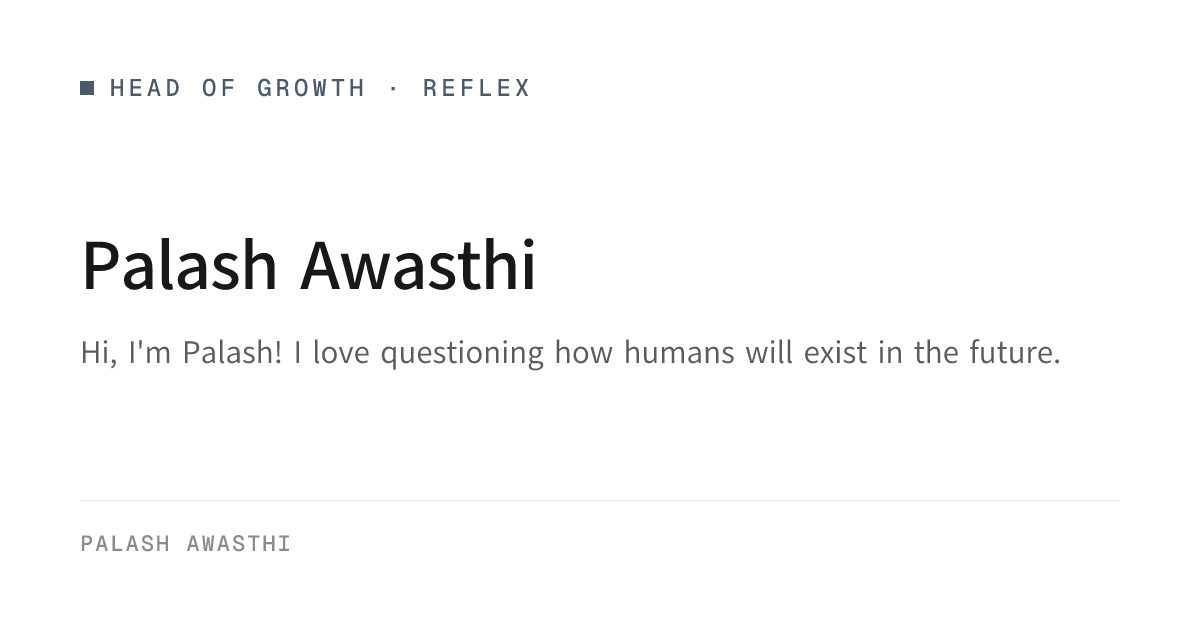
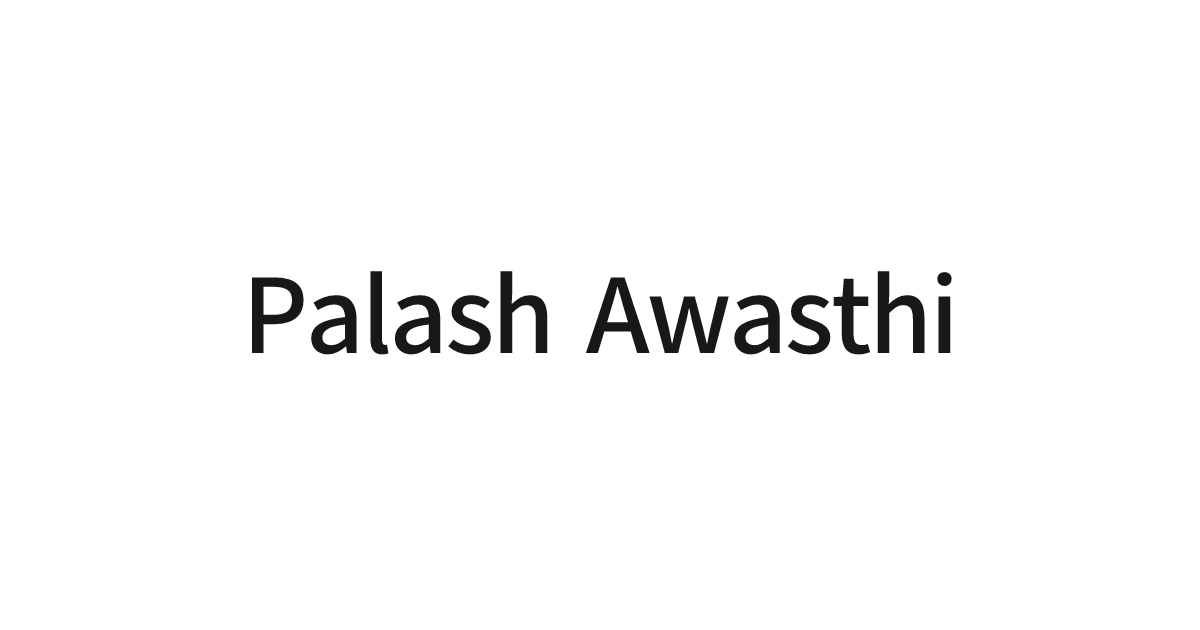
Deploy site — built from main@eff3ac2

diff --git a/index.html b/index.html
@@ -1,2 +1,2 @@
-<!DOCTYPE html><html lang="en" data-astro-cid-z4jru4n3><head><script>document.documentElement.classList.add('js');</script><meta charset="utf-8"><meta name="viewport" content="width=device-width, initial-scale=1"><meta name="generator" content="Astro v7.0.3"><title>Palash Awasthi</title><meta name="description" content="Hi, I'm Palash! I love questioning how humans will exist in the future."><link rel="canonical" href="https://www.palashawasthi.com/"><link rel="preload" href="/fonts/akatab-latin-400-normal.woff2" as="font" type="font/woff2" crossorigin><link rel="preload" href="/fonts/akatab-latin-600-normal.woff2" as="font" type="font/woff2" crossorigin><meta name="theme-color" content="#FFFFFF"><meta property="og:type" content="website"><meta property="og:title" content="Palash Awasthi"><meta property="og:description" content="Hi, I'm Palash! I love questioning how humans will exist in the future."><meta property="og:url" content="https://www.palashawasthi.com/"><meta property="og:image" content="https://www.palashawasthi.com/og/default.png"><meta property="og:image:width" content="1200"><meta property="og:image:height" content="630"><meta property="og:site_name" content="Palash Awasthi"><meta name="twitter:card" content="summary_large_image"><meta name="twitter:title" content="Palash Awasthi"><meta name="twitter:description" content="Hi, I'm Palash! I love questioning how humans will exist in the future."><meta name="twitter:image" content="https://www.palashawasthi.com/og/default.png"><link rel="sitemap" href="/sitemap-index.xml"><link rel="icon" href="/favicon.svg" type="image/svg+xml"><link rel="stylesheet" href="/_astro/BaseLayout.D_IoUOR4.css"><style>.shell[data-astro-cid-lcdefpme]{grid-template-columns:minmax(0,.85fr) minmax(0,1fr);align-items:start;gap:clamp(2rem,5vw,4rem);display:grid}.shell__figure[data-astro-cid-lcdefpme]{margin:0}.shell__photo[data-astro-cid-lcdefpme]{width:100%;height:auto;display:block}.shell__content[data-astro-cid-lcdefpme]{text-align:left;flex-direction:column;align-items:flex-start;display:flex}.shell__name[data-astro-cid-lcdefpme]{margin-bottom:1.5rem}.bio[data-astro-cid-lcdefpme]{max-width:46ch;font-size:1.0625rem;line-height:1.65}.bio[data-astro-cid-lcdefpme]>[data-astro-cid-lcdefpme]+[data-astro-cid-lcdefpme]{margin-top:1.1em}.block[data-astro-cid-lcdefpme]{width:100%;margin-top:2.6rem}.block[data-astro-cid-lcdefpme] .eyebrow[data-astro-cid-lcdefpme]{margin-bottom:1.1rem;display:block}.pairs[data-astro-cid-lcdefpme]{grid-template-columns:max-content max-content;justify-content:start;align-items:baseline;gap:.8rem 2rem;display:grid}.pairs__row[data-astro-cid-lcdefpme]{display:contents}.pairs__key[data-astro-cid-lcdefpme]{text-transform:none;letter-spacing:.01em;color:var(--ink-muted);text-align:left;font-size:.95rem}.pairs__val[data-astro-cid-lcdefpme]{color:var(--ink);text-align:left;font-size:1.0625rem}.pairs__note[data-astro-cid-lcdefpme]{white-space:pre;color:var(--ink-muted);font-size:.82rem}.pairs__orglink[data-astro-cid-lcdefpme],.pairs__link[data-astro-cid-lcdefpme]{color:var(--accent);text-underline-offset:.18em;text-decoration:underline;text-decoration-color:color-mix(in srgb, var(--accent) 40%, transparent);transition:color .14s,text-decoration-color .14s}.pairs__orglink[data-astro-cid-lcdefpme]:hover,.pairs__link[data-astro-cid-lcdefpme]:hover{color:var(--accent-hover);text-decoration-color:currentColor}.pairs__link[data-astro-cid-lcdefpme]{font-family:var(--font-mono);font-size:.92rem}.pairs__row--sep[data-astro-cid-lcdefpme]>dt[data-astro-cid-lcdefpme],.pairs__row--sep[data-astro-cid-lcdefpme]>dd[data-astro-cid-lcdefpme]{margin-top:.9rem}@media (width<=880px){.shell[data-astro-cid-lcdefpme]{grid-template-columns:1fr}.shell__figure[data-astro-cid-lcdefpme]{max-width:30rem}}@media (width<=460px){.pairs[data-astro-cid-lcdefpme]{grid-template-columns:1fr;row-gap:.15rem}.pairs__row[data-astro-cid-lcdefpme]+.pairs__row[data-astro-cid-lcdefpme]>dt[data-astro-cid-lcdefpme]{margin-top:.8rem}.pairs__row--sep[data-astro-cid-lcdefpme]>dt[data-astro-cid-lcdefpme]{margin-top:1.4rem}.pairs__row--sep[data-astro-cid-lcdefpme]>dd[data-astro-cid-lcdefpme]{margin-top:0}}
-</style></head><body data-astro-cid-z4jru4n3><a href="#main" class="skip-link" data-astro-cid-z4jru4n3>Skip to content</a><main id="main" class="container site-main" data-astro-cid-z4jru4n3><div class="shell" data-astro-cid-lcdefpme><figure class="shell__figure" data-reveal data-astro-cid-lcdefpme><img src="/_astro/coast-drive.C5_kZwlL_ZYTiGA.webp" srcset="/_astro/coast-drive.C5_kZwlL_20IRfo.webp 480w, /_astro/coast-drive.C5_kZwlL_1xg6hN.webp 800w, /_astro/coast-drive.C5_kZwlL_ZYTiGA.webp 1200w" alt="A white Porsche convertible parked on a coastal road at sunset, ocean and clouded sky beyond the guardrail." sizes="(max-width: 880px) 100vw, 42vw" loading="eager" data-astro-cid-lcdefpme="true" decoding="async" width="1200" height="1350" class="shell__photo"></figure><div class="shell__content" data-astro-cid-lcdefpme><h1 class="display shell__name" data-reveal data-astro-cid-lcdefpme>Palash Awasthi</h1><div class="bio" data-reveal data-reveal-group="bio" data-astro-cid-lcdefpme><p data-astro-cid-lcdefpme>Hi, I&#39;m Palash! I love questioning how humans will exist in the future.</p><p data-astro-cid-lcdefpme>I believe strongly in precedent; I try to ground my decisions in the past.</p><p data-astro-cid-lcdefpme>I like cars a lot! If you're in the bay and would like to go on a drive together, reach out to me.</p></div><section class="block" data-reveal data-reveal-group="bio" aria-labelledby="affiliations" data-astro-cid-lcdefpme><h2 id="affiliations" class="eyebrow" data-astro-cid-lcdefpme>Affiliations</h2><dl class="pairs" data-astro-cid-lcdefpme><div class="pairs__row" data-astro-cid-lcdefpme><dt class="meta pairs__key" data-astro-cid-lcdefpme><a class="pairs__orglink" href="https://reflex.dev" rel="noopener" data-astro-cid-lcdefpme>Reflex</a><span class="pairs__note" data-astro-cid-lcdefpme> (current)</span></dt><dd class="pairs__val" data-astro-cid-lcdefpme>Head of Growth</dd></div><div class="pairs__row" data-astro-cid-lcdefpme><dt class="meta pairs__key" data-astro-cid-lcdefpme>Dedalus Labs</dt><dd class="pairs__val" data-astro-cid-lcdefpme>Head of Growth</dd></div><div class="pairs__row" data-astro-cid-lcdefpme><dt class="meta pairs__key" data-astro-cid-lcdefpme>Bloom</dt><dd class="pairs__val" data-astro-cid-lcdefpme>Co-founder, CTO</dd></div><div class="pairs__row" data-astro-cid-lcdefpme><dt class="meta pairs__key" data-astro-cid-lcdefpme>Neev Data</dt><dd class="pairs__val" data-astro-cid-lcdefpme>SWE intern, GTM</dd></div><div class="pairs__row pairs__row--sep" data-astro-cid-lcdefpme><dt class="meta pairs__key" data-astro-cid-lcdefpme>Northeastern</dt><dd class="pairs__val" data-astro-cid-lcdefpme>&#39;27 (On leave)</dd></div></dl></section><section class="block" data-reveal data-reveal-group="bio" aria-labelledby="elsewhere" data-astro-cid-lcdefpme><h2 id="elsewhere" class="eyebrow" data-astro-cid-lcdefpme>Elsewhere</h2><dl class="pairs" data-astro-cid-lcdefpme><div class="pairs__row" data-astro-cid-lcdefpme><dt class="meta pairs__key" data-astro-cid-lcdefpme>Email</dt><dd class="pairs__val" data-astro-cid-lcdefpme><a class="pairs__link" href="mailto:palash@reflex.dev" data-astro-cid-lcdefpme>palash@reflex.dev</a></dd></div><div class="pairs__row" data-astro-cid-lcdefpme><dt class="meta pairs__key" data-astro-cid-lcdefpme>X</dt><dd class="pairs__val" data-astro-cid-lcdefpme><a class="pairs__link" href="https://x.com/palashaw_" rel="me noopener" data-astro-cid-lcdefpme>x.com/palashaw_</a></dd></div><div class="pairs__row" data-astro-cid-lcdefpme><dt class="meta pairs__key" data-astro-cid-lcdefpme>LinkedIn</dt><dd class="pairs__val" data-astro-cid-lcdefpme><a class="pairs__link" href="https://www.linkedin.com/in/palash-awasthi/" rel="me noopener" data-astro-cid-lcdefpme>linkedin.com/in/palash-awasthi</a></dd></div><div class="pairs__row" data-astro-cid-lcdefpme><dt class="meta pairs__key" data-astro-cid-lcdefpme>Spotify</dt><dd class="pairs__val" data-astro-cid-lcdefpme><a class="pairs__link" href="https://open.spotify.com/user/qt1a53s7mpw1pyudrdm4uth48?si=a8aec30b2d894030" rel="me noopener" data-astro-cid-lcdefpme>open.spotify.com</a></dd></div></dl></section></div></div></main><script type="module">function e(){let e=document.querySelectorAll(`[data-reveal]:not(.is-visible)`);if(!e.length)return;if(matchMedia(`(prefers-reduced-motion: reduce)`).matches){e.forEach(e=>e.classList.add(`is-visible`));return}let t=new Map;e.forEach(e=>{let n=e.dataset.revealGroup??`_`,r=t.get(n)??0;e.style.setProperty(`--reveal-delay`,`${Math.min(r,8)*40}ms`),t.set(n,r+1)});let n=new IntersectionObserver((e,t)=>{for(let n of e)n.isIntersecting&&(n.target.classList.add(`is-visible`),t.unobserve(n.target))},{rootMargin:`0px 0px -8% 0px`,threshold:.1});e.forEach(e=>n.observe(e))}e();</script></body></html>
+<!DOCTYPE html><html lang="en" data-astro-cid-z4jru4n3><head><script>document.documentElement.classList.add('js');</script><meta charset="utf-8"><meta name="viewport" content="width=device-width, initial-scale=1"><meta name="generator" content="Astro v7.0.3"><title>Palash Awasthi</title><meta name="description" content="Hi, I'm Palash! I love questioning how humans will exist in the future."><link rel="canonical" href="https://www.palashawasthi.com/"><link rel="preload" href="/fonts/akatab-latin-400-normal.woff2" as="font" type="font/woff2" crossorigin><link rel="preload" href="/fonts/akatab-latin-600-normal.woff2" as="font" type="font/woff2" crossorigin><meta name="theme-color" content="#FFFFFF"><meta property="og:type" content="website"><meta property="og:title" content="Palash Awasthi"><meta property="og:url" content="https://www.palashawasthi.com/"><meta property="og:image" content="https://www.palashawasthi.com/og/default.png?v=2"><meta property="og:image:width" content="1200"><meta property="og:image:height" content="630"><meta property="og:site_name" content="Palash Awasthi"><meta name="twitter:card" content="summary_large_image"><meta name="twitter:title" content="Palash Awasthi"><meta name="twitter:image" content="https://www.palashawasthi.com/og/default.png?v=2"><link rel="sitemap" href="/sitemap-index.xml"><link rel="icon" href="/_astro/coast-drive.C5_kZwlL_Zh0GB1.png" type="image/png" sizes="32x32"><link rel="apple-touch-icon" href="/_astro/coast-drive.C5_kZwlL_F3LJB.png" sizes="180x180"><link rel="stylesheet" href="/_astro/BaseLayout.D_IoUOR4.css"><style>.shell[data-astro-cid-lcdefpme]{grid-template-columns:minmax(0,.85fr) minmax(0,1fr);align-items:start;gap:clamp(2rem,5vw,4rem);display:grid}.shell__figure[data-astro-cid-lcdefpme]{margin:0}.shell__photo[data-astro-cid-lcdefpme]{width:100%;height:auto;display:block}.shell__content[data-astro-cid-lcdefpme]{text-align:left;flex-direction:column;align-items:flex-start;display:flex}.shell__name[data-astro-cid-lcdefpme]{margin-bottom:1.5rem}.bio[data-astro-cid-lcdefpme]{max-width:46ch;font-size:1.0625rem;line-height:1.65}.bio[data-astro-cid-lcdefpme]>[data-astro-cid-lcdefpme]+[data-astro-cid-lcdefpme]{margin-top:1.1em}.block[data-astro-cid-lcdefpme]{width:100%;margin-top:2.6rem}.block[data-astro-cid-lcdefpme] .eyebrow[data-astro-cid-lcdefpme]{margin-bottom:1.1rem;display:block}.pairs[data-astro-cid-lcdefpme]{grid-template-columns:max-content max-content;justify-content:start;align-items:baseline;gap:.8rem 2rem;display:grid}.pairs__row[data-astro-cid-lcdefpme]{display:contents}.pairs__key[data-astro-cid-lcdefpme]{text-transform:none;letter-spacing:.01em;color:var(--ink-muted);text-align:left;font-size:.95rem}.pairs__val[data-astro-cid-lcdefpme]{color:var(--ink);text-align:left;font-size:1.0625rem}.pairs__note[data-astro-cid-lcdefpme]{white-space:pre;color:var(--ink-muted);font-size:.82rem}.pairs__orglink[data-astro-cid-lcdefpme],.pairs__link[data-astro-cid-lcdefpme]{color:var(--accent);text-underline-offset:.18em;text-decoration:underline;text-decoration-color:color-mix(in srgb, var(--accent) 40%, transparent);transition:color .14s,text-decoration-color .14s}.pairs__orglink[data-astro-cid-lcdefpme]:hover,.pairs__link[data-astro-cid-lcdefpme]:hover{color:var(--accent-hover);text-decoration-color:currentColor}.pairs__link[data-astro-cid-lcdefpme]{font-family:var(--font-mono);font-size:.92rem}.pairs__row--sep[data-astro-cid-lcdefpme]>dt[data-astro-cid-lcdefpme],.pairs__row--sep[data-astro-cid-lcdefpme]>dd[data-astro-cid-lcdefpme]{margin-top:.9rem}@media (width<=880px){.shell[data-astro-cid-lcdefpme]{grid-template-columns:1fr}.shell__figure[data-astro-cid-lcdefpme]{max-width:30rem}}@media (width<=460px){.pairs[data-astro-cid-lcdefpme]{grid-template-columns:1fr;row-gap:.15rem}.pairs__row[data-astro-cid-lcdefpme]+.pairs__row[data-astro-cid-lcdefpme]>dt[data-astro-cid-lcdefpme]{margin-top:.8rem}.pairs__row--sep[data-astro-cid-lcdefpme]>dt[data-astro-cid-lcdefpme]{margin-top:1.4rem}.pairs__row--sep[data-astro-cid-lcdefpme]>dd[data-astro-cid-lcdefpme]{margin-top:0}}
+</style></head><body data-astro-cid-z4jru4n3><a href="#main" class="skip-link" data-astro-cid-z4jru4n3>Skip to content</a><main id="main" class="container site-main" data-astro-cid-z4jru4n3><div class="shell" data-astro-cid-lcdefpme><figure class="shell__figure" data-reveal data-astro-cid-lcdefpme><img src="/_astro/coast-drive.C5_kZwlL_ZYTiGA.webp" srcset="/_astro/coast-drive.C5_kZwlL_20IRfo.webp 480w, /_astro/coast-drive.C5_kZwlL_1xg6hN.webp 800w, /_astro/coast-drive.C5_kZwlL_ZYTiGA.webp 1200w" alt="A white Porsche convertible parked on a coastal road at sunset, ocean and clouded sky beyond the guardrail." sizes="(max-width: 880px) 100vw, 42vw" loading="eager" data-astro-cid-lcdefpme="true" decoding="async" width="1200" height="1350" class="shell__photo"></figure><div class="shell__content" data-astro-cid-lcdefpme><h1 class="display shell__name" data-reveal data-astro-cid-lcdefpme>Palash Awasthi</h1><div class="bio" data-reveal data-reveal-group="bio" data-astro-cid-lcdefpme><p data-astro-cid-lcdefpme>Hi, I&#39;m Palash! I love questioning how humans will exist in the future.</p><p data-astro-cid-lcdefpme>I believe strongly in precedent; I try to ground my decisions in the past.</p><p data-astro-cid-lcdefpme>I like cars a lot! If you're in the bay and would like to go on a drive together, reach out to me.</p></div><section class="block" data-reveal data-reveal-group="bio" aria-labelledby="affiliations" data-astro-cid-lcdefpme><h2 id="affiliations" class="eyebrow" data-astro-cid-lcdefpme>Affiliations</h2><dl class="pairs" data-astro-cid-lcdefpme><div class="pairs__row" data-astro-cid-lcdefpme><dt class="meta pairs__key" data-astro-cid-lcdefpme><a class="pairs__orglink" href="https://reflex.dev" rel="noopener" data-astro-cid-lcdefpme>Reflex</a><span class="pairs__note" data-astro-cid-lcdefpme> (current)</span></dt><dd class="pairs__val" data-astro-cid-lcdefpme>Head of Growth</dd></div><div class="pairs__row" data-astro-cid-lcdefpme><dt class="meta pairs__key" data-astro-cid-lcdefpme>Dedalus Labs</dt><dd class="pairs__val" data-astro-cid-lcdefpme>Head of Growth</dd></div><div class="pairs__row" data-astro-cid-lcdefpme><dt class="meta pairs__key" data-astro-cid-lcdefpme>Bloom</dt><dd class="pairs__val" data-astro-cid-lcdefpme>Co-founder, CTO</dd></div><div class="pairs__row" data-astro-cid-lcdefpme><dt class="meta pairs__key" data-astro-cid-lcdefpme>Neev Data</dt><dd class="pairs__val" data-astro-cid-lcdefpme>SWE intern, GTM</dd></div><div class="pairs__row pairs__row--sep" data-astro-cid-lcdefpme><dt class="meta pairs__key" data-astro-cid-lcdefpme>Northeastern</dt><dd class="pairs__val" data-astro-cid-lcdefpme>&#39;27 (On leave)</dd></div></dl></section><section class="block" data-reveal data-reveal-group="bio" aria-labelledby="elsewhere" data-astro-cid-lcdefpme><h2 id="elsewhere" class="eyebrow" data-astro-cid-lcdefpme>Elsewhere</h2><dl class="pairs" data-astro-cid-lcdefpme><div class="pairs__row" data-astro-cid-lcdefpme><dt class="meta pairs__key" data-astro-cid-lcdefpme>Email</dt><dd class="pairs__val" data-astro-cid-lcdefpme><a class="pairs__link" href="mailto:palash.awasthi@outlook.com" data-astro-cid-lcdefpme>palash.awasthi@outlook.com</a></dd></div><div class="pairs__row" data-astro-cid-lcdefpme><dt class="meta pairs__key" data-astro-cid-lcdefpme>X</dt><dd class="pairs__val" data-astro-cid-lcdefpme><a class="pairs__link" href="https://x.com/palashaw_" rel="me noopener" data-astro-cid-lcdefpme>x.com/palashaw_</a></dd></div><div class="pairs__row" data-astro-cid-lcdefpme><dt class="meta pairs__key" data-astro-cid-lcdefpme>LinkedIn</dt><dd class="pairs__val" data-astro-cid-lcdefpme><a class="pairs__link" href="https://www.linkedin.com/in/palash-awasthi/" rel="me noopener" data-astro-cid-lcdefpme>linkedin.com/in/palash-awasthi</a></dd></div><div class="pairs__row" data-astro-cid-lcdefpme><dt class="meta pairs__key" data-astro-cid-lcdefpme>Spotify</dt><dd class="pairs__val" data-astro-cid-lcdefpme><a class="pairs__link" href="https://open.spotify.com/user/qt1a53s7mpw1pyudrdm4uth48?si=a8aec30b2d894030" rel="me noopener" data-astro-cid-lcdefpme>open.spotify.com</a></dd></div></dl></section></div></div></main><script type="module">function e(){let e=document.querySelectorAll(`[data-reveal]:not(.is-visible)`);if(!e.length)return;if(matchMedia(`(prefers-reduced-motion: reduce)`).matches){e.forEach(e=>e.classList.add(`is-visible`));return}let t=new Map;e.forEach(e=>{let n=e.dataset.revealGroup??`_`,r=t.get(n)??0;e.style.setProperty(`--reveal-delay`,`${Math.min(r,8)*40}ms`),t.set(n,r+1)});let n=new IntersectionObserver((e,t)=>{for(let n of e)n.isIntersecting&&(n.target.classList.add(`is-visible`),t.unobserve(n.target))},{rootMargin:`0px 0px -8% 0px`,threshold:.1});e.forEach(e=>n.observe(e))}e();</script></body></html>

diff --git a/404.html b/404.html
@@ -1,2 +1,2 @@
-<!DOCTYPE html><html lang="en" data-astro-cid-z4jru4n3><head><script>document.documentElement.classList.add('js');</script><meta charset="utf-8"><meta name="viewport" content="width=device-width, initial-scale=1"><meta name="generator" content="Astro v7.0.3"><title>Not found — Palash Awasthi</title><meta name="description" content="Page not found."><link rel="canonical" href="https://www.palashawasthi.com/404/"><link rel="preload" href="/fonts/akatab-latin-400-normal.woff2" as="font" type="font/woff2" crossorigin><link rel="preload" href="/fonts/akatab-latin-600-normal.woff2" as="font" type="font/woff2" crossorigin><meta name="theme-color" content="#FFFFFF"><meta property="og:type" content="website"><meta property="og:title" content="Not found — Palash Awasthi"><meta property="og:description" content="Page not found."><meta property="og:url" content="https://www.palashawasthi.com/404/"><meta property="og:image" content="https://www.palashawasthi.com/og/default.png"><meta property="og:image:width" content="1200"><meta property="og:image:height" content="630"><meta property="og:site_name" content="Palash Awasthi"><meta name="twitter:card" content="summary_large_image"><meta name="twitter:title" content="Not found — Palash Awasthi"><meta name="twitter:description" content="Page not found."><meta name="twitter:image" content="https://www.palashawasthi.com/og/default.png"><link rel="sitemap" href="/sitemap-index.xml"><link rel="icon" href="/favicon.svg" type="image/svg+xml"><link rel="stylesheet" href="/_astro/BaseLayout.D_IoUOR4.css"><style>.notfound[data-astro-cid-ibpinaeu]{padding-block:clamp(2rem,8vw,5rem)}
+<!DOCTYPE html><html lang="en" data-astro-cid-z4jru4n3><head><script>document.documentElement.classList.add('js');</script><meta charset="utf-8"><meta name="viewport" content="width=device-width, initial-scale=1"><meta name="generator" content="Astro v7.0.3"><title>Not found — Palash Awasthi</title><meta name="description" content="Page not found."><link rel="canonical" href="https://www.palashawasthi.com/404/"><link rel="preload" href="/fonts/akatab-latin-400-normal.woff2" as="font" type="font/woff2" crossorigin><link rel="preload" href="/fonts/akatab-latin-600-normal.woff2" as="font" type="font/woff2" crossorigin><meta name="theme-color" content="#FFFFFF"><meta property="og:type" content="website"><meta property="og:title" content="Not found — Palash Awasthi"><meta property="og:description" content="Page not found."><meta property="og:url" content="https://www.palashawasthi.com/404/"><meta property="og:image" content="https://www.palashawasthi.com/og/default.png?v=2"><meta property="og:image:width" content="1200"><meta property="og:image:height" content="630"><meta property="og:site_name" content="Palash Awasthi"><meta name="twitter:card" content="summary_large_image"><meta name="twitter:title" content="Not found — Palash Awasthi"><meta name="twitter:description" content="Page not found."><meta name="twitter:image" content="https://www.palashawasthi.com/og/default.png?v=2"><link rel="sitemap" href="/sitemap-index.xml"><link rel="icon" href="/_astro/coast-drive.C5_kZwlL_Zh0GB1.png" type="image/png" sizes="32x32"><link rel="apple-touch-icon" href="/_astro/coast-drive.C5_kZwlL_F3LJB.png" sizes="180x180"><link rel="stylesheet" href="/_astro/BaseLayout.D_IoUOR4.css"><style>.notfound[data-astro-cid-ibpinaeu]{padding-block:clamp(2rem,8vw,5rem)}
 </style></head><body data-astro-cid-z4jru4n3><a href="#main" class="skip-link" data-astro-cid-z4jru4n3>Skip to content</a><main id="main" class="container site-main" data-astro-cid-z4jru4n3><section class="notfound" data-astro-cid-ibpinaeu><h1 class="display" data-astro-cid-ibpinaeu>Page not found</h1></section></main><script type="module">function e(){let e=document.querySelectorAll(`[data-reveal]:not(.is-visible)`);if(!e.length)return;if(matchMedia(`(prefers-reduced-motion: reduce)`).matches){e.forEach(e=>e.classList.add(`is-visible`));return}let t=new Map;e.forEach(e=>{let n=e.dataset.revealGroup??`_`,r=t.get(n)??0;e.style.setProperty(`--reveal-delay`,`${Math.min(r,8)*40}ms`),t.set(n,r+1)});let n=new IntersectionObserver((e,t)=>{for(let n of e)n.isIntersecting&&(n.target.classList.add(`is-visible`),t.unobserve(n.target))},{rootMargin:`0px 0px -8% 0px`,threshold:.1});e.forEach(e=>n.observe(e))}e();</script></body></html>
